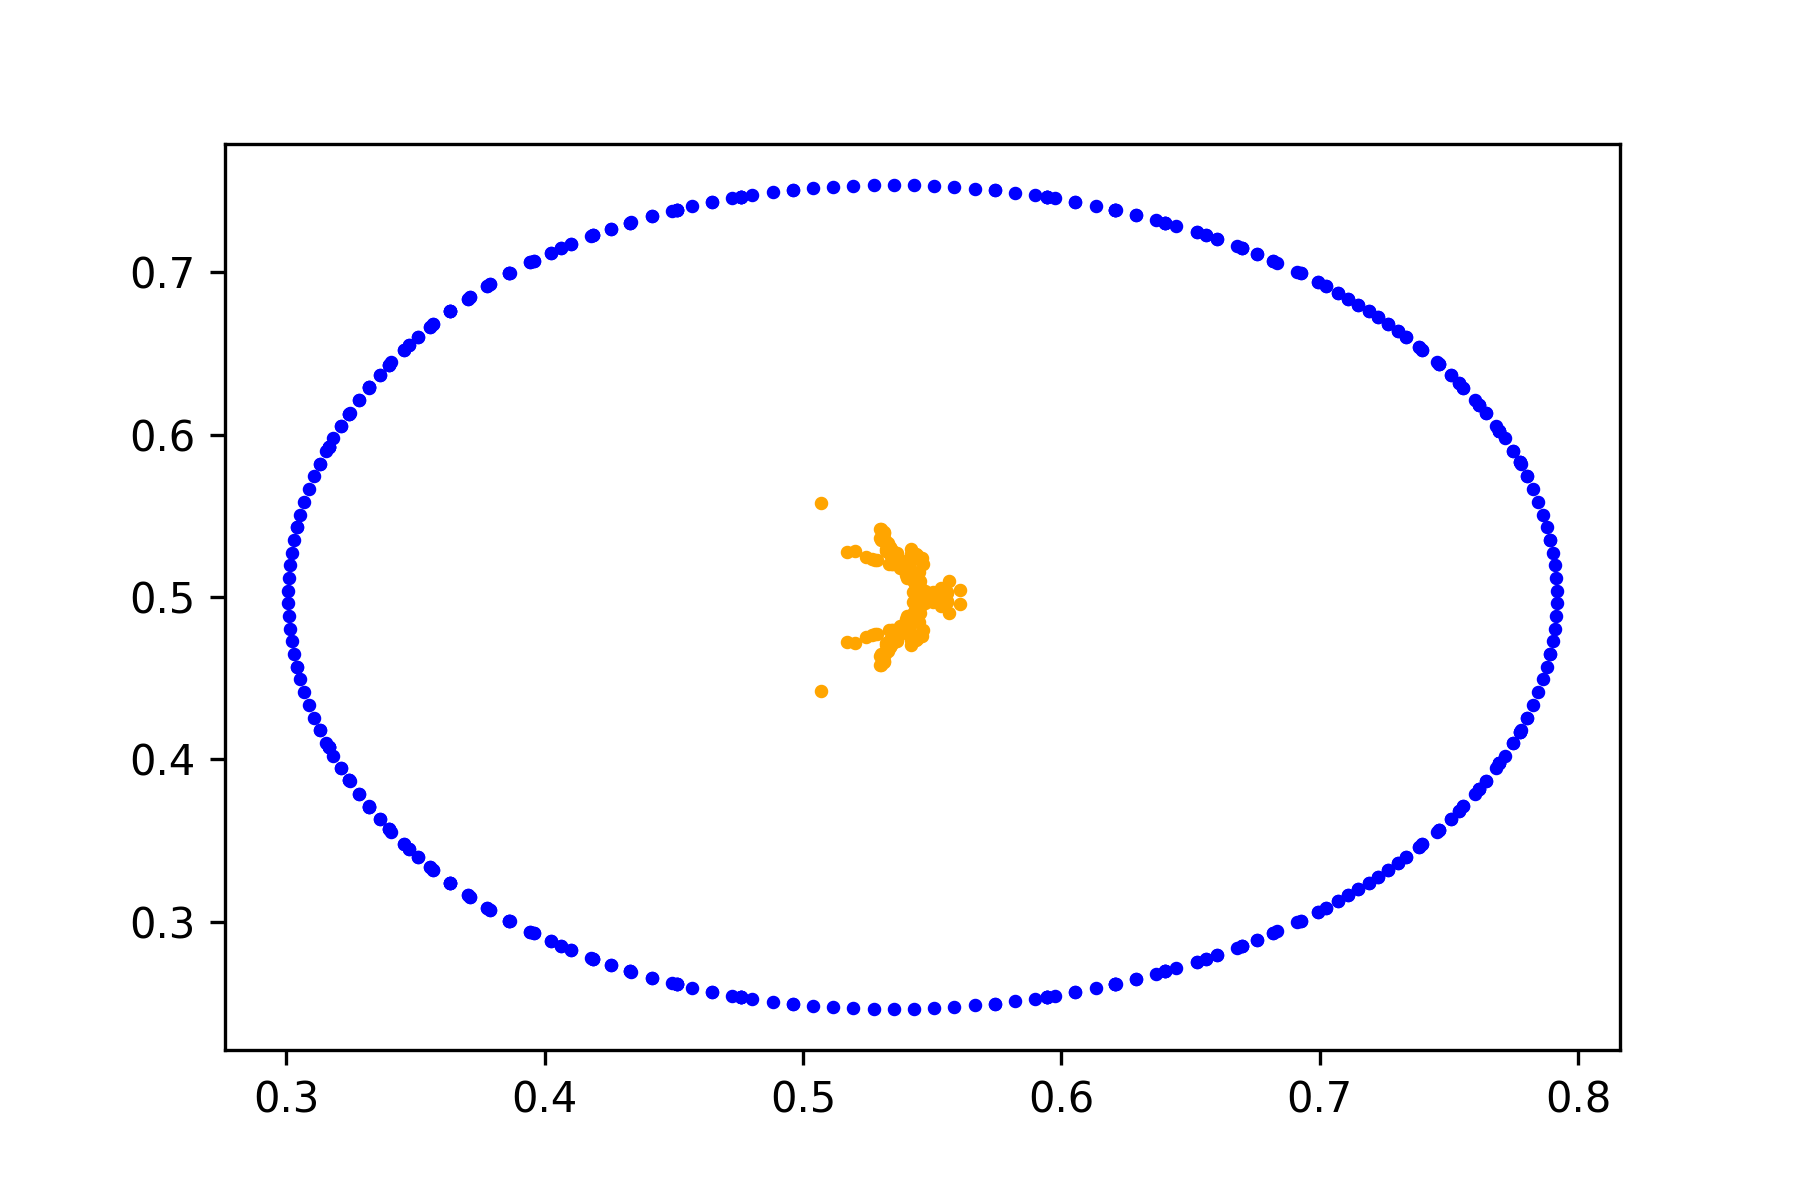
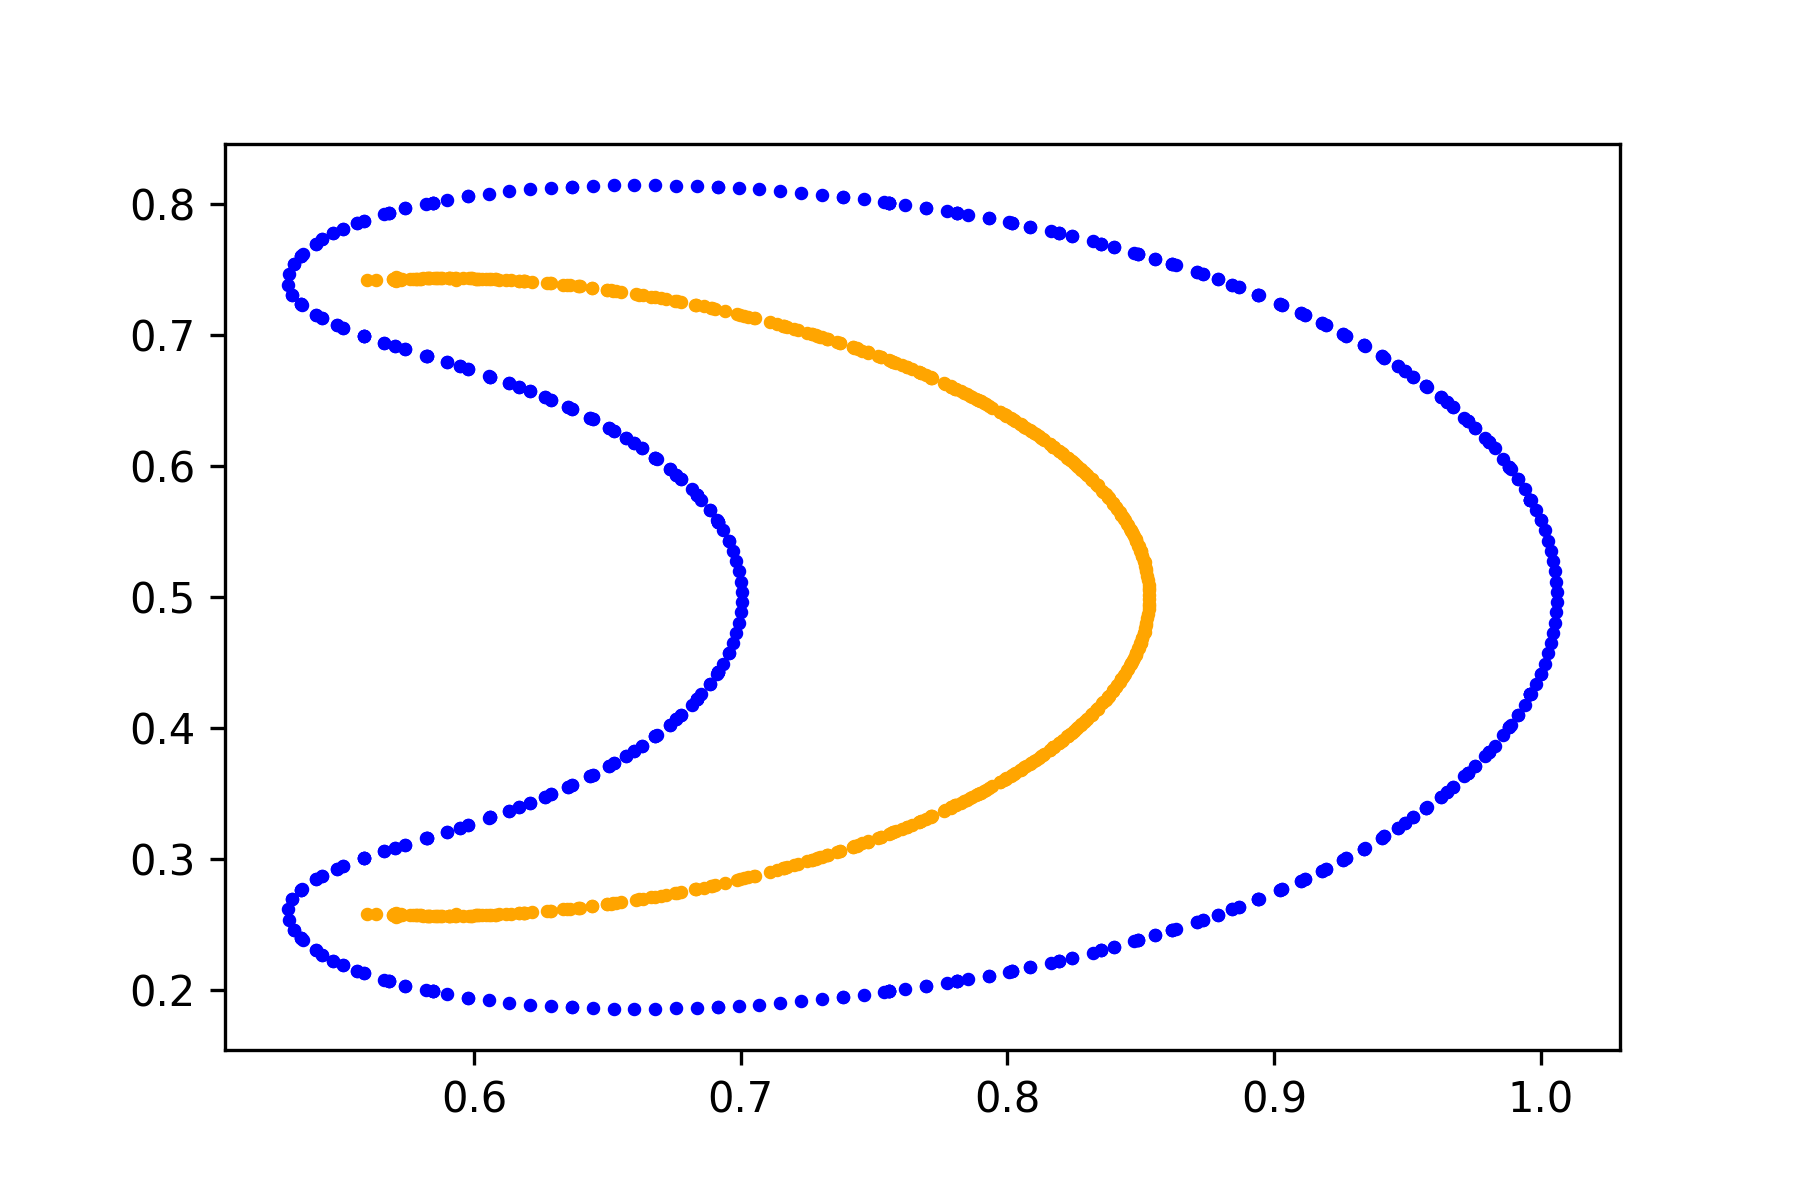
small saves

diff --git a/SkeleNet.py b/SkeleNet.py
@@ -1,16 +1,16 @@
 import os
 from random  import randint
-from sys import float_repr_style
-import matplotlib
+# from sys import float_repr_style
+# import matplotlib
 import matplotlib.pyplot as plt
-from mpl_toolkits import mplot3d
+# from mpl_toolkits import mplot3d
 import numpy as np
 import csv
-import scipy
-import pandas as pd
+# import scipy
+# import pandas as pd
 import time
 
-from DataStructures import kdTree,SplitTree, SkelePoint
+from DataStructures import kdTree,SplitTree
 from Skeletize import checkRepeat,getRadius,getDistance,normalize, getAngle, getPoint
 
 class SkeleNet:
@@ -140,11 +140,9 @@ class SkeleNet:
         print('Ordering took {} minuites and {} seconds'.format((tt) // 60,(tt) % 60))
         
     def orderR(self,key : int,depth : int = 0,point : list = [],lastNode : list = []):
-        print()
         #First grabs a random point from the given Skeleton data to take as the Original Point
         Local = []#local describes all points within a 10*threshdistance range
         Localr = []#locals radii
-
         print(depth)
         throwNodes = []#points might throwout but not sure yet
         throwRad = []#radii of potential throw points
@@ -440,7 +438,6 @@ class SkeleNet:
                             break
             
             
-            print(point,'isos',isotags,'combs',combtags)
             #Now we have generalized vector collections, Empties will be ignored, combos will be considered together
             #Iso's will be treated as simple branches and stepped out upon
             newNodes = []
@@ -901,8 +898,8 @@ class SkeleNet:
             elif mode[index] == 3:
                 pt = []
                 plt.clf()
-                plt.xlim(0.5,1.1)
-                plt.ylim(0.1,0.9)
+                # plt.xlim(-.2,.2)
+                # plt.ylim(-.2,.2)
                 i = 0
                 tx = []
                 ty = []
@@ -936,8 +933,8 @@ class SkeleNet:
             elif mode[index] == 4:
                 #This is the figure which can display the quadtree along with its nodes
                 plt.clf()
-                plt.xlim(0.2,0.8)
-                plt.ylim(0.2,0.8)
+                plt.xlim(0.4,1.2)
+                plt.ylim(0.1,0.9)
                 i = 0
                 tx = []
                 ty = []

diff --git a/Main.py b/Main.py
@@ -1,27 +1,28 @@
-from random  import randint
-from sys import float_repr_style
-import matplotlib
-import matplotlib.pyplot as plt
-import matplotlib.animation as animation
-from matplotlib.animation import FuncAnimation
-from mpl_toolkits import mplot3d
-import numpy as np
-import csv
-import scipy
-import pandas as pd
-import os
+# from random  import randint
+# from sys import float_repr_style
+# import matplotlib
+# import matplotlib.pyplot as plt
+# import matplotlib.animation as animation
+# from matplotlib.animation import FuncAnimation
+# from mpl_toolkits import mplot3d
+# import numpy as np
+# import csv
+# import scipy
+# import pandas as pd
+# import os
 import time
-
-import Skeletize
-import DataStructures 
-from DataStructures import kdTree
+# import pprofile
+# import Skeletize
+# import DataStructures 
+# from DataStructures import kdTree
 from SkeleNet import SkeleNet
+
 
 st = time.time()
 
-plt.rcParams['figure.dpi'] = 300
+# plt.rcParams['figure.dpi'] = 300
 
-theta = np.linspace(0,2*np.pi,100)
+#theta = np.linspace(0,2*np.pi,100)
 
 xmin = -0.3
 xmax = 0.2
@@ -29,12 +30,8 @@ ymin = -0.3
 ymax = 0.2
 
 tstart = time.time()
-IntPoints = []
-TestPoints = []
-NormPoints = []
 
-
-net = SkeleNet('interface_points_020000.dat')
+net = SkeleNet('interface_points_070000.dat')
 #net = SkeleNet('spiral.dat')
 #net = SkeleNet('vof_points_norm1.dat')
 net.solve(False)

diff --git a/DataStructures.py b/DataStructures.py
@@ -4,18 +4,18 @@ Created on Thu Feb 17 16:46:08 2022
 
 @author: graha
 """
-from random  import randint
-from sys import float_repr_style
-import matplotlib
+# from random  import randint
+# from sys import float_repr_style
+# import matplotlib
 import matplotlib.pyplot as plt
-from matplotlib.animation import FuncAnimation
-from mpl_toolkits import mplot3d
+# from matplotlib.animation import FuncAnimation
+# from mpl_toolkits import mplot3d
 import numpy as np
-import csv
-import scipy
-import pandas as pd
+# import csv
+# import scipy
+# import pandas as pd
 
-import numpy as np
+# import numpy as np
 
 from Skeletize import getDistance, getAngle
 

diff --git a/Skeletize.py b/Skeletize.py
@@ -5,16 +5,16 @@ Created on Thu Feb 17 16:22:45 2022
 @author: Graham Garcia
 """
 
-from random  import randint
-from sys import float_repr_style
-import matplotlib
-import matplotlib.pyplot as plt
-from matplotlib.animation import FuncAnimation
-from mpl_toolkits import mplot3d
+# from random  import randint
+# from sys import float_repr_style
+# import matplotlib
+# import matplotlib.pyplot as plt
+# from matplotlib.animation import FuncAnimation
+# from mpl_toolkits import mplot3d
 import numpy as np
-import csv
-import scipy
-import pandas as pd
+# import csv
+# import scipy
+# import pandas as pd
 
 
 
